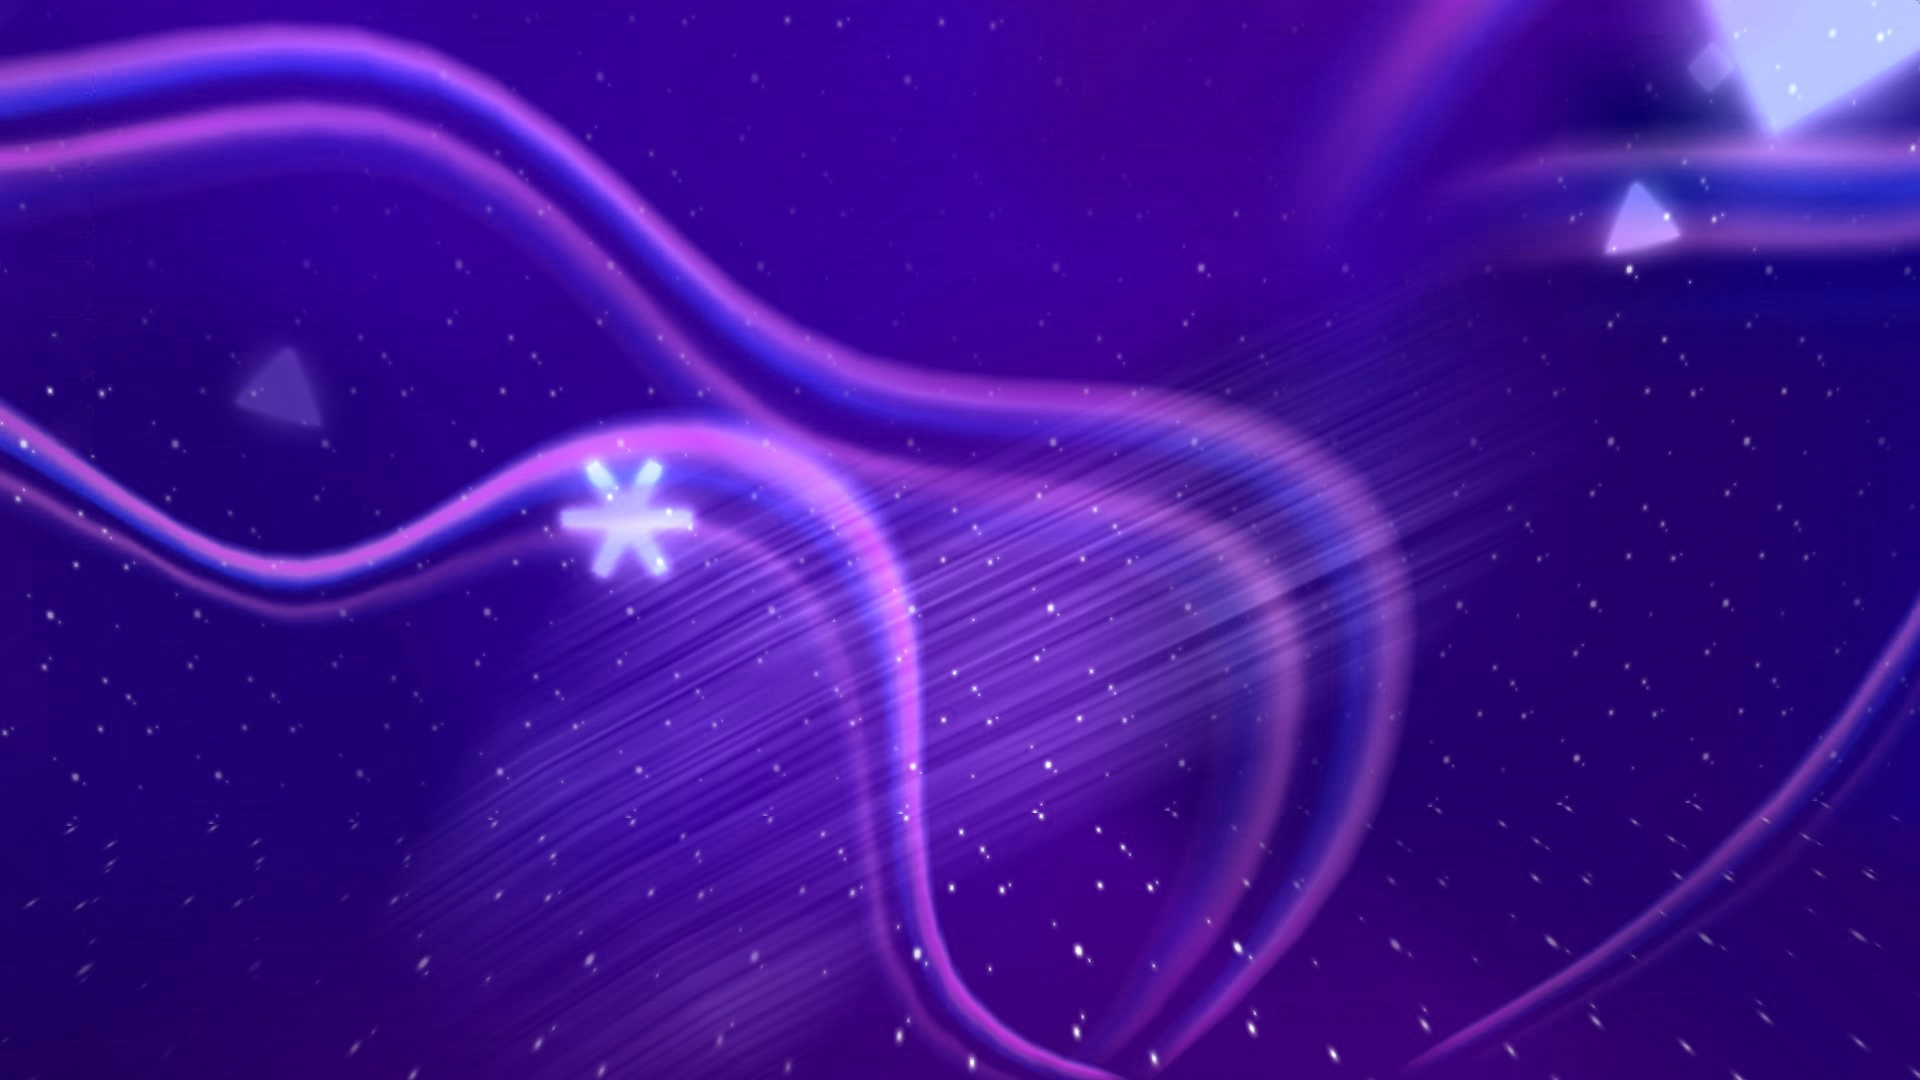
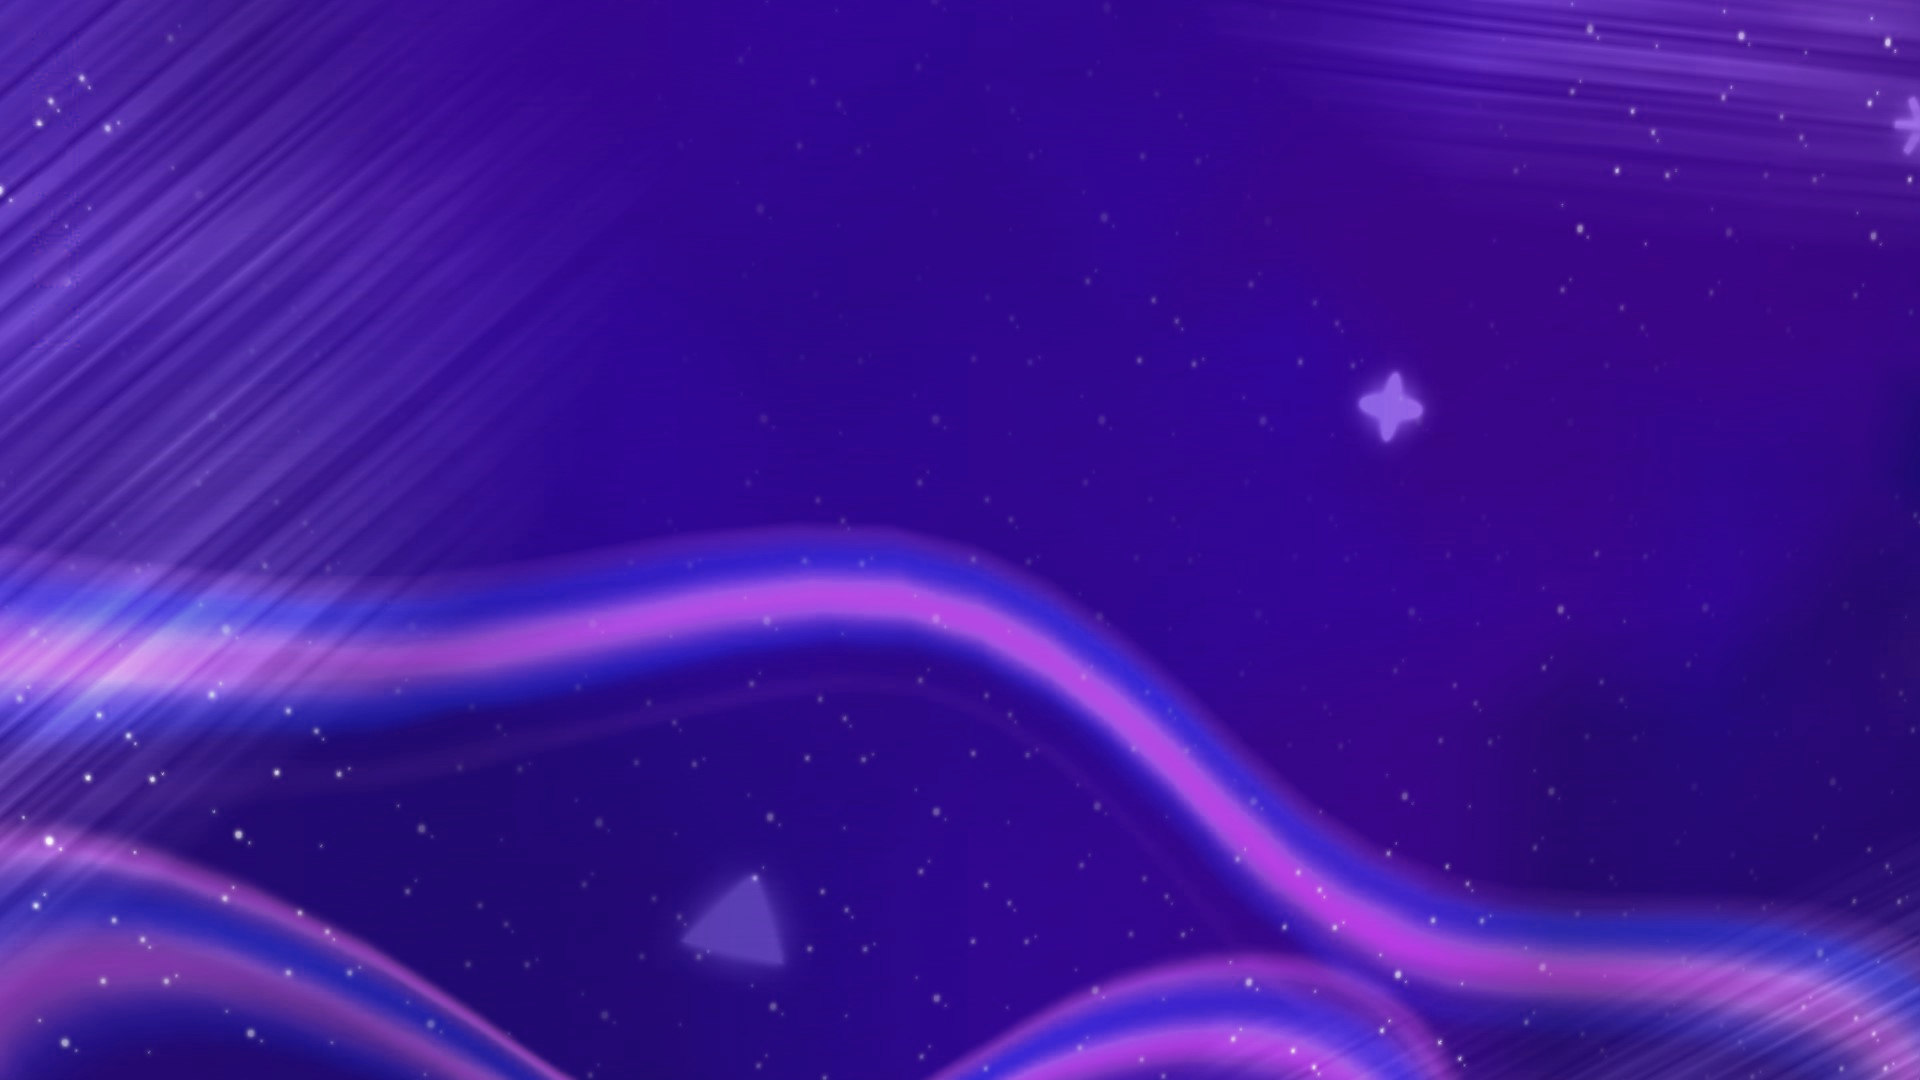
start of emoji html file and added new space.png

diff --git a/templates/emojistyle.css b/templates/emojistyle.css
@@ -1,0 +1,104 @@
+@import url('https://fonts.googleapis.com/css?family=Poppins: wght@300;400;500; 600; 700; 800;900&display=swap');
+
+* {
+    margin: 0; padding: 0;
+    box-sizing: border-box;
+    font-family: 'Poppins', sans-serif;
+}
+
+header{
+    position: fixed;
+    top: 0;
+    left: 0;
+    width: 100%;
+    padding: 30px 100px; 
+    display: flex;
+    justify-content: space-between;
+    align-items: center;
+    z-index: 100;
+}
+.logo{
+    font-size: 1.7em;
+    cursor: default;
+    color: #FFFFFF;
+    text-shadow: 0 0 10px rgba(0, 0, 0, .8);
+}
+
+.navigation a{
+    /* color: #FFFFFF; */
+    font-size: 1.1em;
+    margin-left: 12px;
+    text-decoration: none;
+    padding: 6px 15px;
+    font-weight: 600;
+}
+.emojiPage{
+    position: relative;
+    width: 100%;
+    height: 100vh;
+    background: url('space.png');
+    background-size: cover;
+    background-position: center;
+    display: flex;
+    justify-content: center;
+    align-items: center;   
+}
+.page1{
+    color: #FFFFFF;
+    text-align: center;
+    letter-spacing: .1em;
+    text-shadow: 0 0 10px rgba(0, 0, 0, .8);
+}
+
+h3{
+    font-size: 3.5em;
+}
+p{
+    color: #FFFFFF;
+    margin: 10px;
+    text-shadow: 0 0 10px rgba(0, 0, 0, .8);
+}
+/* h1{
+    font-size: 0.5em;
+    padding-bottom: 30px;
+} */
+
+button{
+    font-size: 1.3em;
+    color: #FFFFFF;
+    font-weight: 600;
+    padding: 10px 50px;
+    cursor: pointer;
+    border-radius: 40px;
+    background: #DD66FF;
+    border: 0px transparent;
+    transition: .3s;
+}
+button:hover{
+    background: #FFFFFF;
+    color: #000000;
+}
+@media (max-width: 1000px) {
+    .logo{
+        font-size: 7em;
+    }
+    h3 {
+        font-size: 7.5em; /* Adjust this size as needed */
+        line-height: 1.3
+    }
+    button {
+        padding: 50px 130px; /* Adjust padding as needed */
+        font-size: 5em;    /* Increase font size */
+        border-radius: 50px;  /* Optional: adjust border radius */
+        margin: 10px; 
+    }
+    
+}
+.icon {
+    transition: opacity 0.5s ease;
+}
+
+.hidden {
+    opacity: 0;
+    pointer-events: none;
+}

diff --git a/templates/emoji.html b/templates/emoji.html
@@ -1,0 +1,38 @@
+<!DOCTYPE html>
+<html lang="en">
+    <head>
+        <meta charset = "UTF-8">
+        <meta http-equiv="X-UA-Compatible" content="IE=edge">
+        <meta name="viewpoint" content= "width=device-width, initial-scale=1.0">
+        <title>Mixer MD</title>
+        <link rel="stylesheet" type="text/css" href="emojistyle.css">
+
+        <body>
+            <header>
+                <h2 class="logo">Mixer MD</h2>
+                <nav class="navigation">
+                </nav>
+            </header>
+            <section class="emojiPage">
+                <div class="page1">
+                    <!-- below are the emoji game instructions -->
+                    <h3 id="title">The Emoji Story Game!</h3>
+                    <p id="instruction1" >Rules: Type a phrase in emojis that could tell a story. </p>
+                    <p id="instruction2">After that you will be given someone elses phrase to give a story to! </p>    
+                    <p id="instruction3">Once you are done try to find your connected pair!</p>
+
+                    <!-- <button>Player</button> -->
+                    <button id="startButton" onclick="hidePage1()">Start</button>
+                </div>
+                    <script>
+                        function hidePage1() {
+                            // Hiding the instructions
+                            //document.getElementById('page1').style.display = 'none';
+                            document.querySelector('.page1').classList.add('hidden');
+                        }
+                    </script>
+                
+            </section>
+        </body>
+    </head>
+</html>
